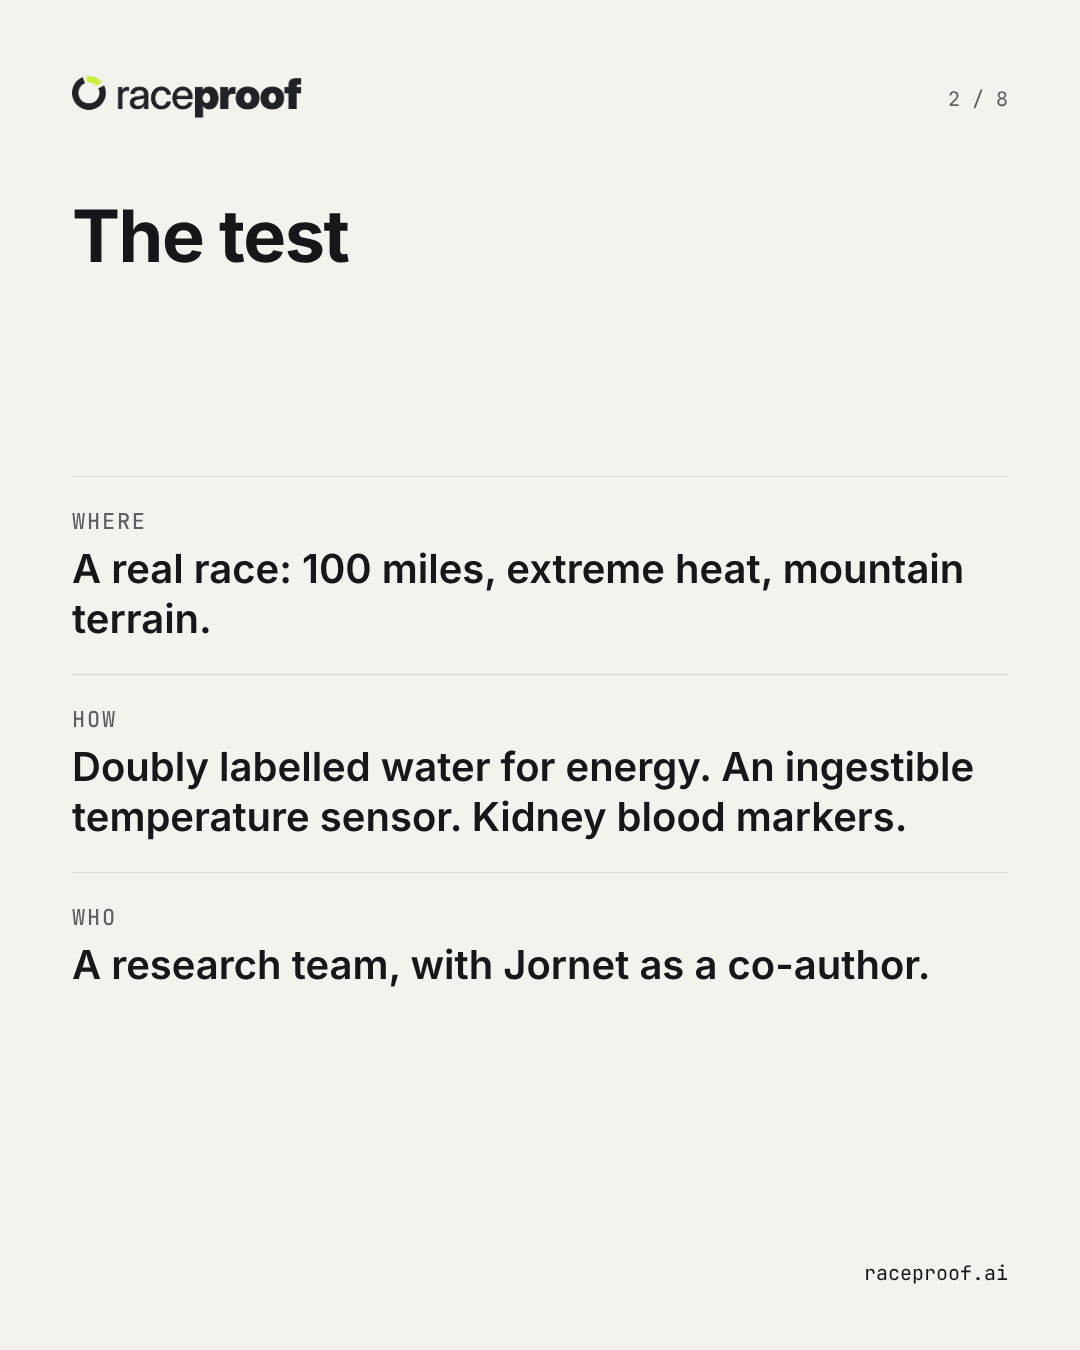
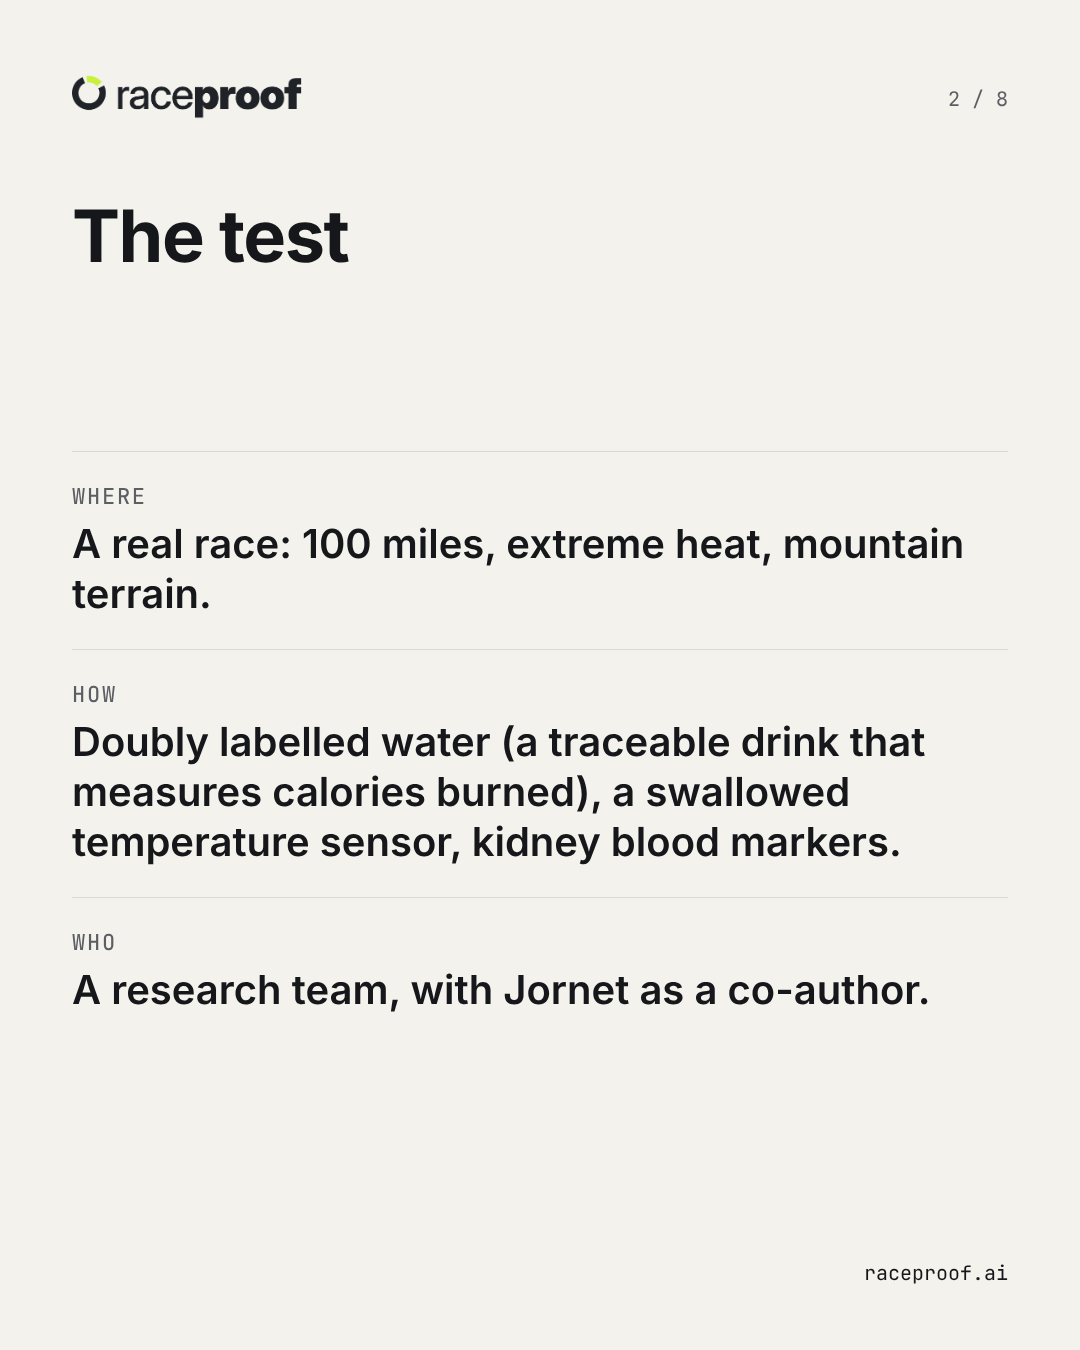
Jornet slide 2: explain doubly labelled water
Claude-Session: https://claude.ai/code/session_01HnAGBKS3TMRPuz6YDVU3Ja

Changed region(s): [[0.0611, 0.4978, 0.9167, 0.7467], [0.0611, 0.3422, 0.9167, 0.4667]]

diff --git a/posts/2026-10-26/tue-pro-jornet-2.html b/posts/2026-10-26/tue-pro-jornet-2.html
@@ -20,7 +20,7 @@ h1,h2{text-wrap:balance}p,div,span{text-wrap:pretty}
 <h2 style="margin:72px 0 0;font-size:72px;line-height:78px;font-weight:800;letter-spacing:-0.02em">The test</h2>
 <div style="margin-top:auto;display:flex;flex-direction:column">
 <div style="padding:30px 0;border-top:1px solid #DDD9D0;display:flex;flex-direction:column;gap:8px"><div class="lab" style="color:#5B5F64">WHERE</div><div style="font-size:40px;line-height:50px;font-weight:600">A real race: 100 miles, extreme heat, mountain terrain.</div></div>
-<div style="padding:30px 0;border-top:1px solid #DDD9D0;display:flex;flex-direction:column;gap:8px"><div class="lab" style="color:#5B5F64">HOW</div><div style="font-size:40px;line-height:50px;font-weight:600">Doubly labelled water for energy. An ingestible temperature sensor. Kidney blood markers.</div></div>
+<div style="padding:30px 0;border-top:1px solid #DDD9D0;display:flex;flex-direction:column;gap:8px"><div class="lab" style="color:#5B5F64">HOW</div><div style="font-size:40px;line-height:50px;font-weight:600">Doubly labelled water (a traceable drink that measures calories burned), a swallowed temperature sensor, kidney blood markers.</div></div>
 <div style="padding:30px 0;border-top:1px solid #DDD9D0;display:flex;flex-direction:column;gap:8px"><div class="lab" style="color:#5B5F64">WHO</div><div style="font-size:40px;line-height:50px;font-weight:600">A research team, with Jornet as a co-author.</div></div>
 </div>
 <div style="margin-top:auto;padding-top:40px;display:flex;justify-content:space-between;align-items:center;font-family:'JetBrains Mono',ui-monospace,monospace;font-size:20px;color:#5B5F64">
